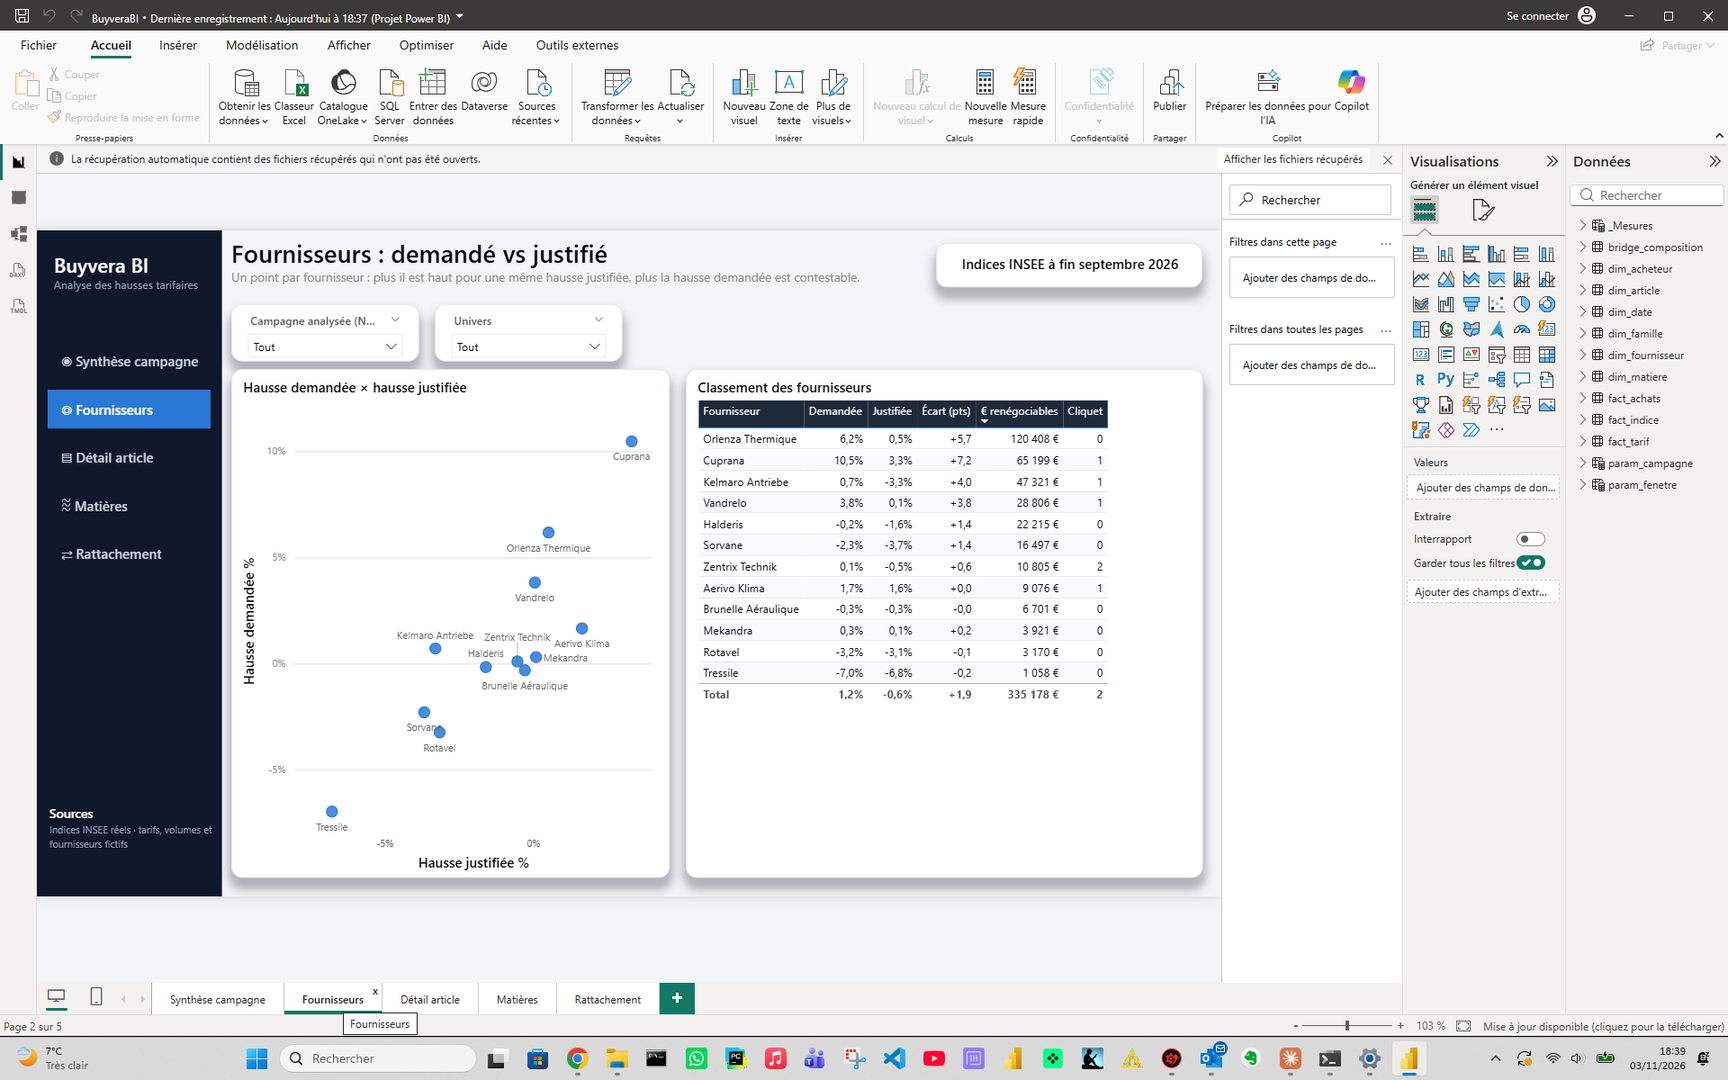
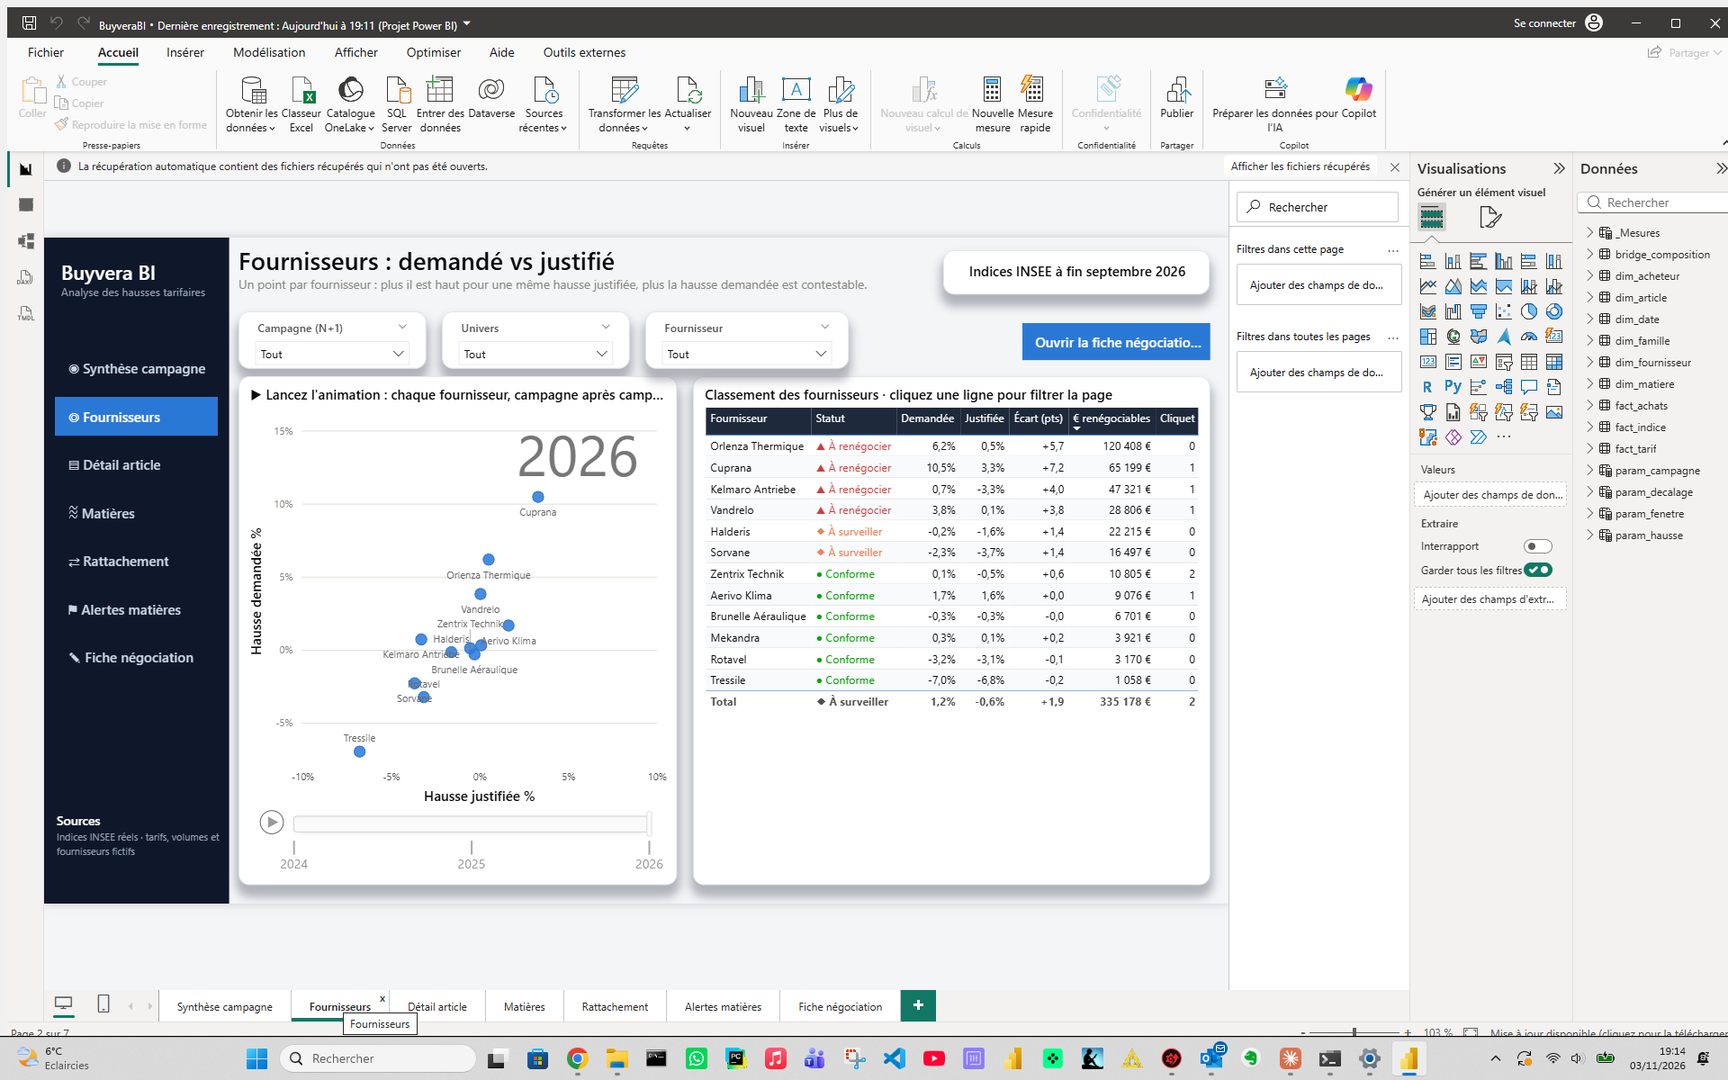
Fournisseurs : capture avec animation, bouton fiche raccourci

diff --git a/scripts/build_pbip.py b/scripts/build_pbip.py
@@ -684,7 +684,7 @@ PAGES = [
                            m("€ renégociables"): "€ renégociables", m("Effet cliquet"): "Cliquet"},
                   "couleur_texte": (m("Statut fournisseur"), "Couleur écart")}),
         segment(FOURN, 540, 80, w=260, titre="Fournisseur"),
-        bouton("Ouvrir la fiche négociation  →", 6, 1020, 92, w=240),
+        bouton("Fiche négociation  →", 6, 1060, 92, w=200),
     ]),
     ("Détail article", entete(
         "Détail article",
